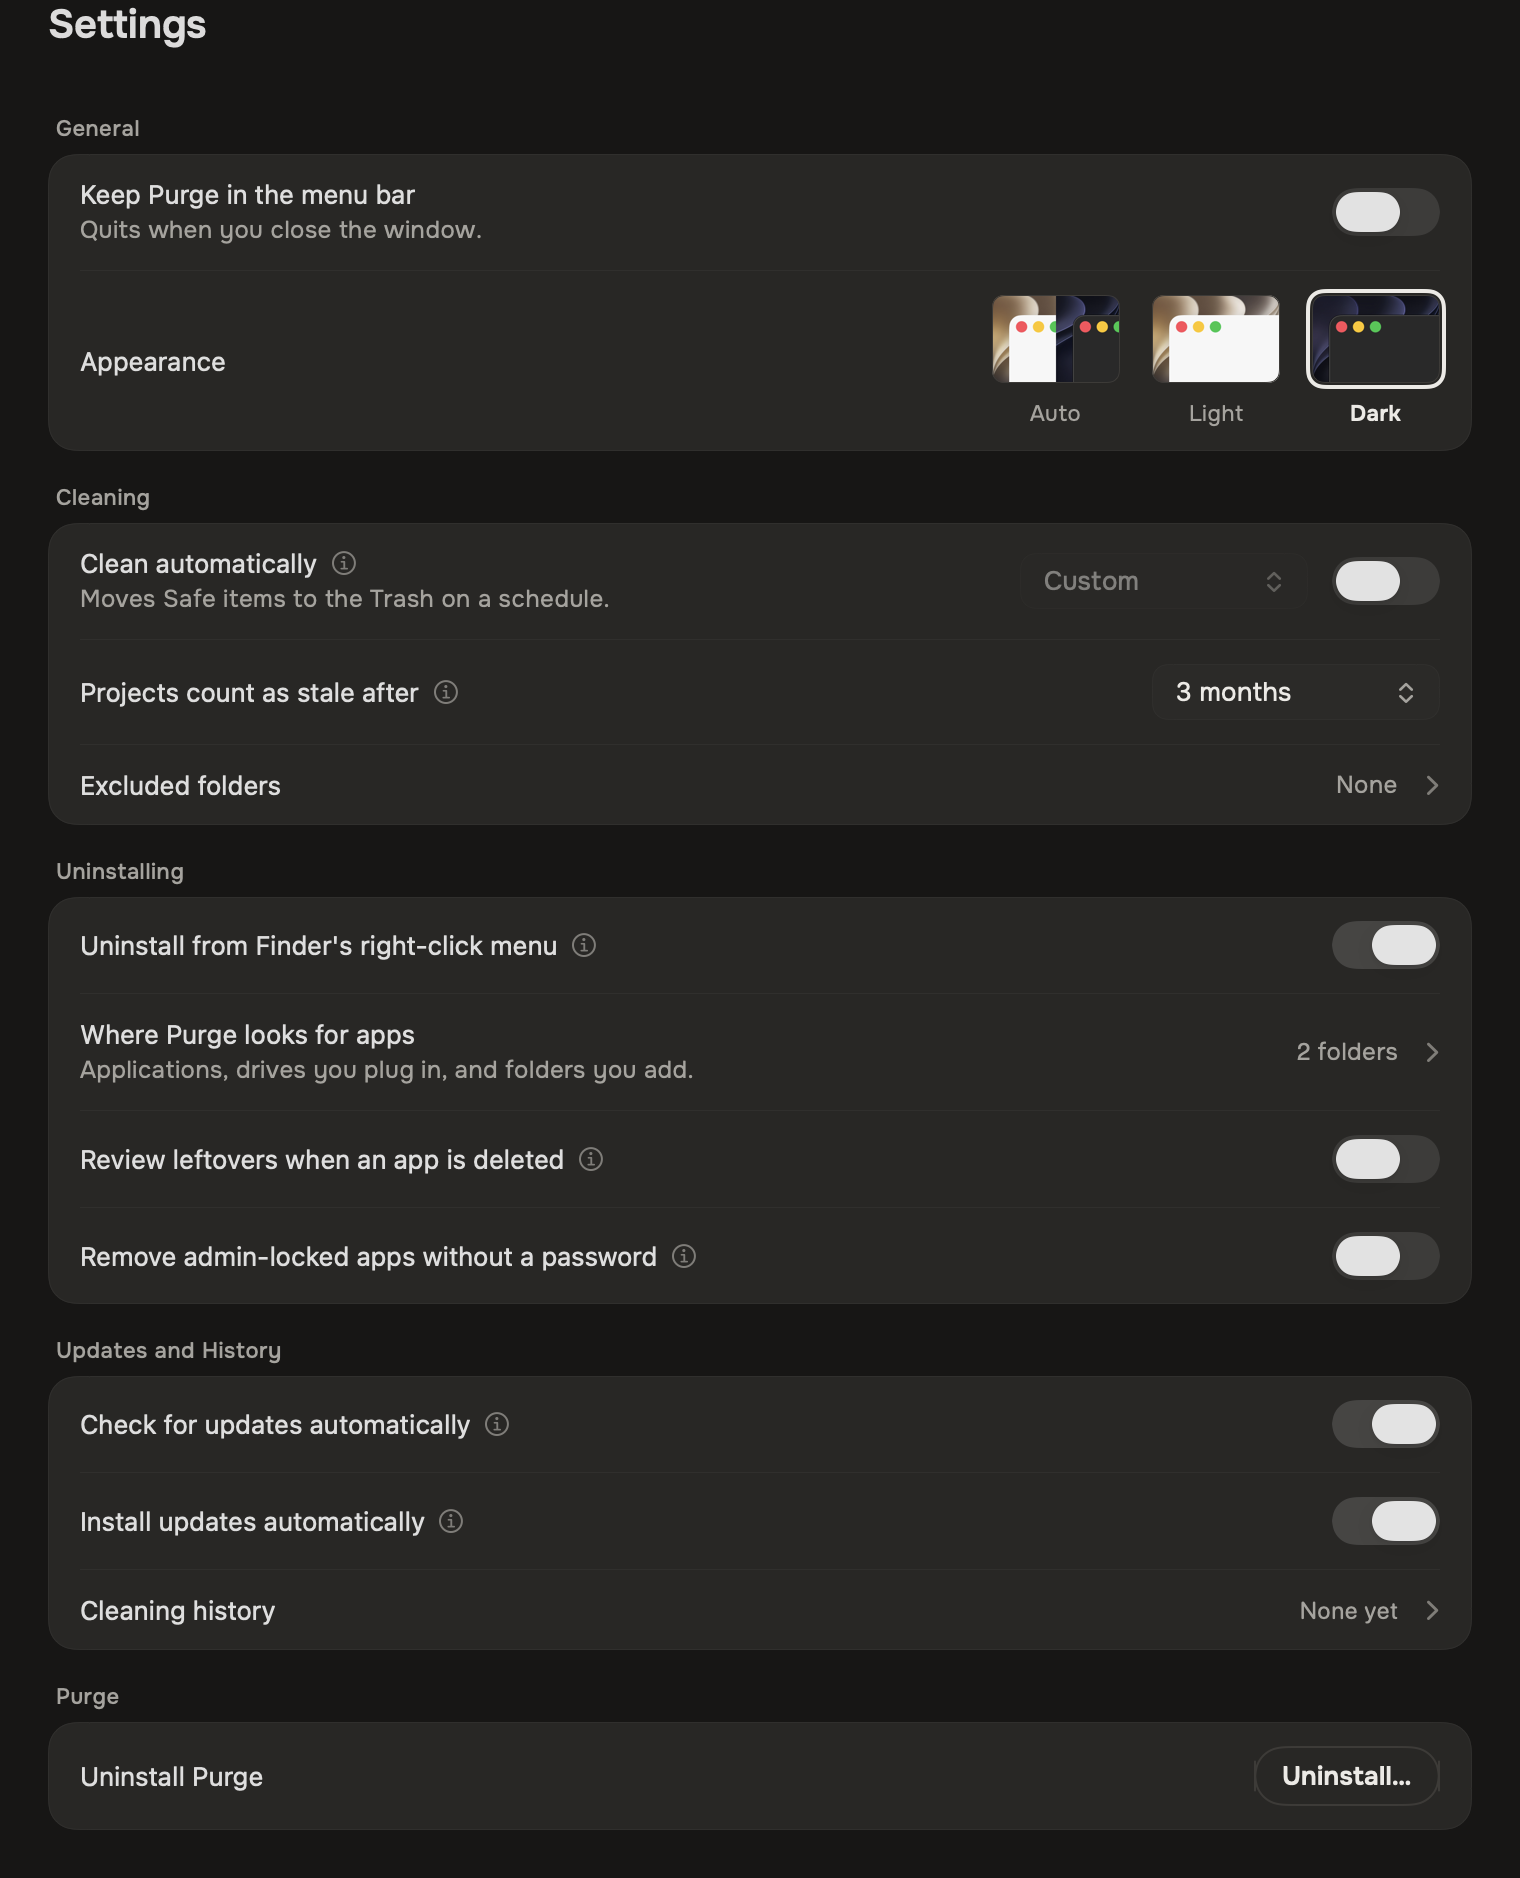
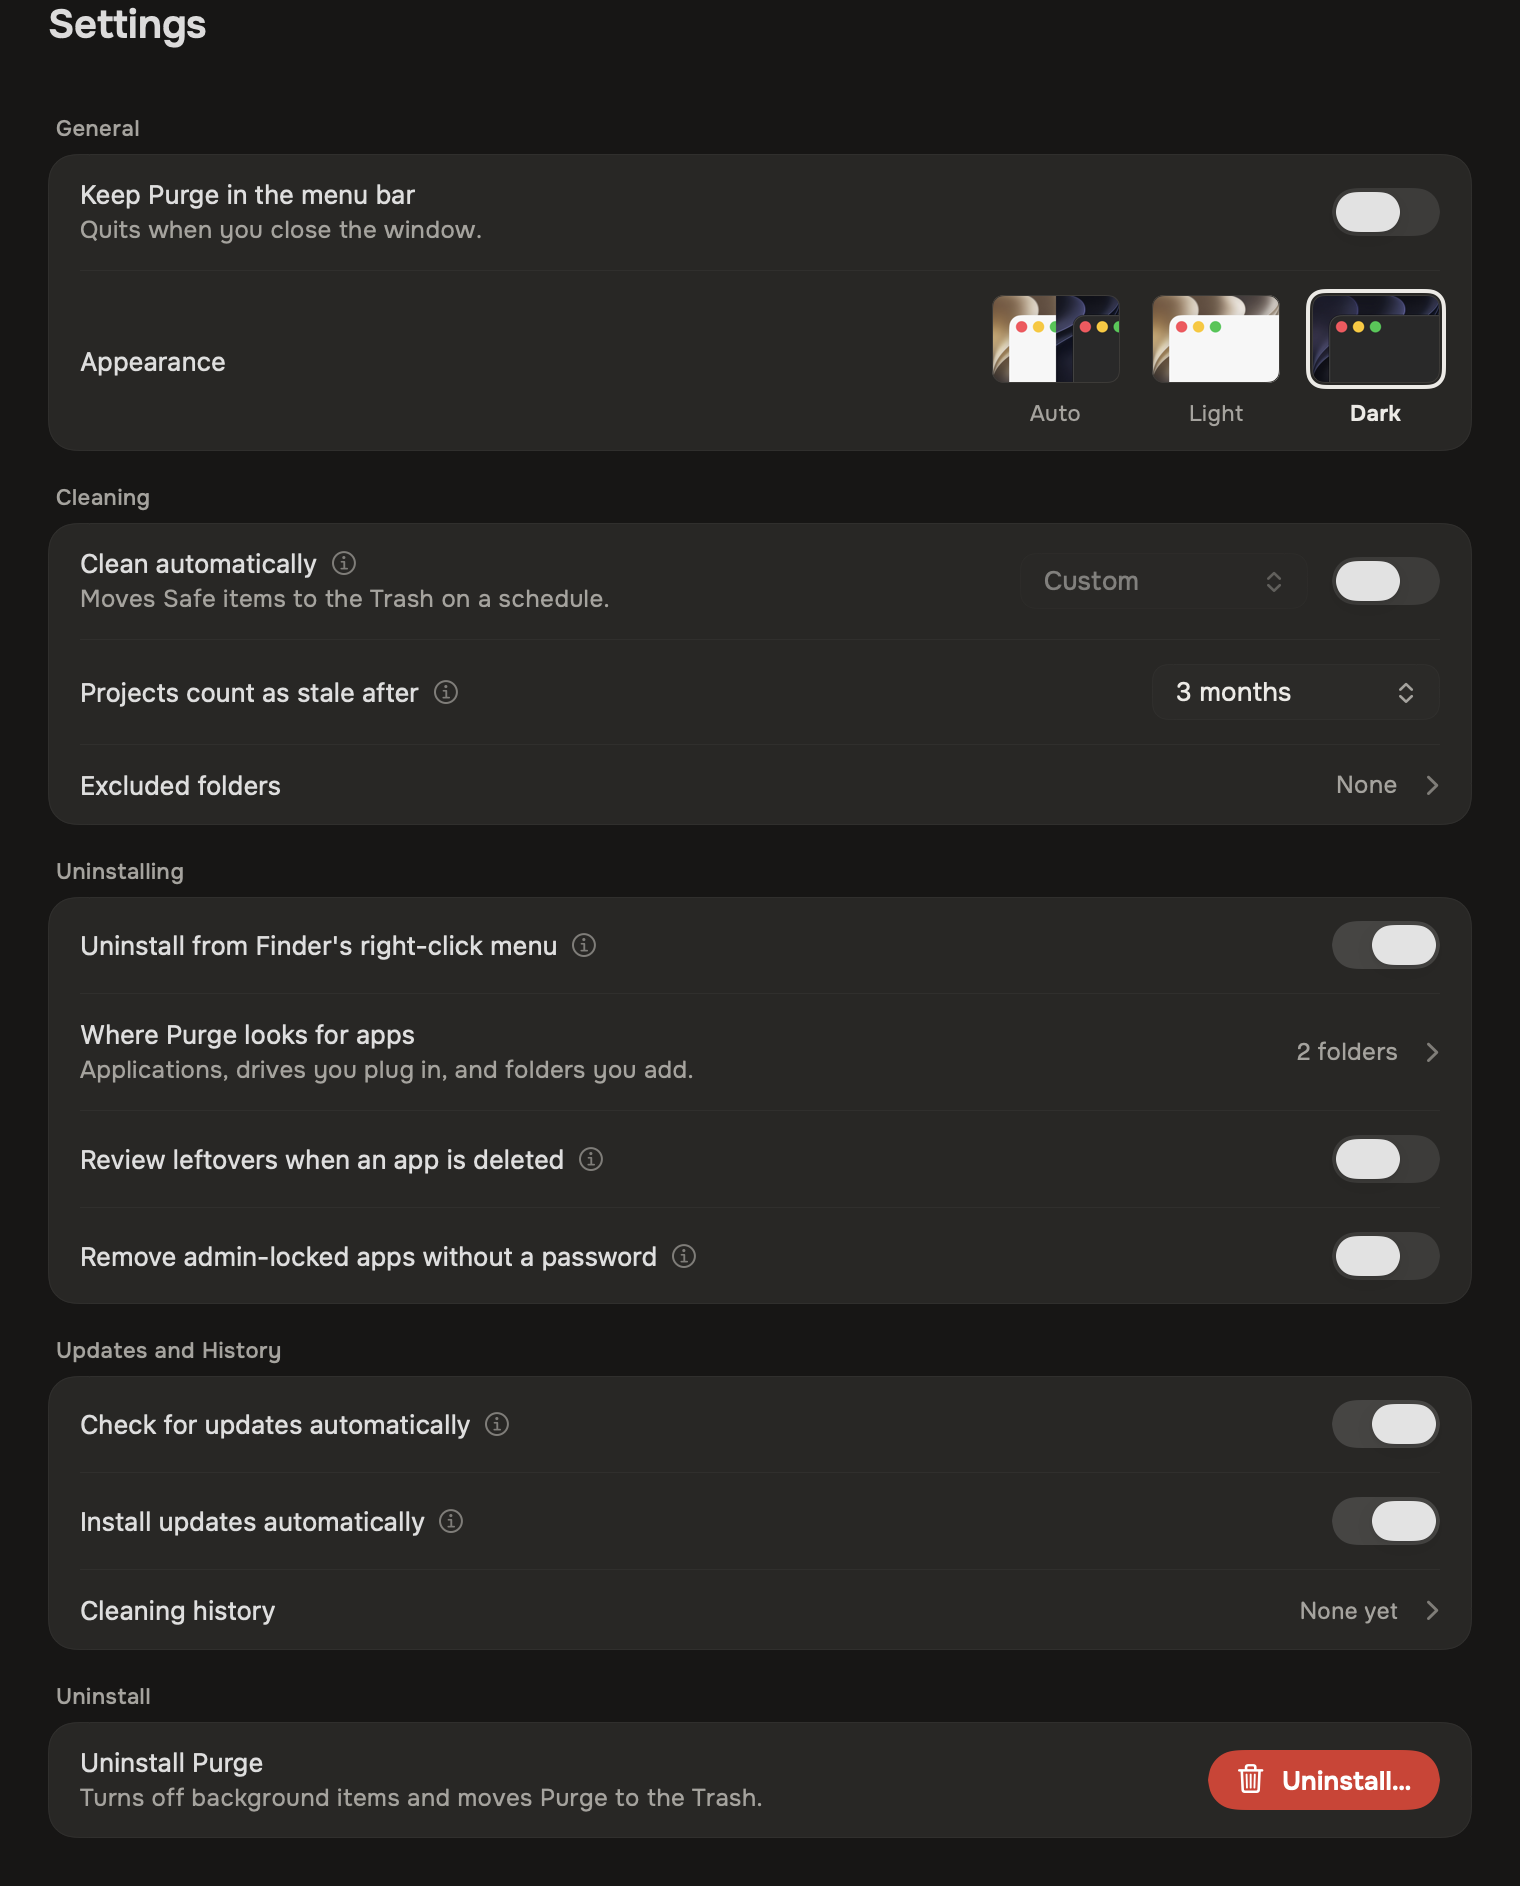
feat: show Uninstall Purge as a red button in its own Settings card (#330)
The group is called Uninstall, the row says what the button does, and the
button uses the destructive style with a trash icon. The card itself looks
like every other card.

diff --git a/purge/Views/SettingsView.swift b/purge/Views/SettingsView.swift
@@ -394,14 +394,21 @@ struct SettingsView: View {
 
     // MARK: - Uninstall
 
-    /// Uninstall Purge (#330), last, under everything it would turn off.
+    /// Uninstall Purge (#330), last, under everything it would turn off. A plain
+    /// card like the others; only the button is red, since it starts a move to
+    /// the Trash. The sheet it opens asks before anything happens.
     private var uninstallGroup: some View {
-        settingsGroup("Purge") {
-            settingsControlRow(title: String(localized: "Uninstall Purge")) {
-                Button(String(localized: "Uninstall…")) {
+        settingsGroup("Uninstall") {
+            settingsControlRow(
+                title: String(localized: "Uninstall Purge"),
+                caption: String(localized: "Turns off background items and moves Purge to the Trash.")
+            ) {
+                Button {
                     store.presentSelfUninstall()
+                } label: {
+                    Label(String(localized: "Uninstall…"), systemImage: "trash")
                 }
-                .buttonStyle(.purge(.secondary))
+                .buttonStyle(.purge(.destructive))
             }
         }
     }

diff --git a/README.md b/README.md
@@ -265,7 +265,7 @@ You can also browse past versions on the [releases page](https://github.com/jith
 
 ## Uninstalling
 
-Choose **Uninstall Purge…** in the Purge menu, or **Settings → Purge → Uninstall…**. Purge lists what it runs in the background on your Mac (the deleted-app watcher, the admin helper, the Finder right-click item, the cleanup reminder and launch at login), turns each one off and checks it really stopped, then moves itself to the Trash and quits.
+Choose **Uninstall Purge…** in the Purge menu, or **Settings → Uninstall → Uninstall…**. Purge lists what it runs in the background on your Mac (the deleted-app watcher, the admin helper, the Finder right-click item, the cleanup reminder and launch at login), turns each one off and checks it really stopped, then moves itself to the Trash and quits.
 
 Your settings and cleaning history stay on your Mac, so a reinstall picks up where you left off. Tick **Also move settings and history to the Trash** to move them too. Nothing is deleted permanently; you empty the Trash when you're ready.
 

diff --git a/README.zh-CN.md b/README.zh-CN.md
@@ -265,7 +265,7 @@ brew upgrade --cask purge
 
 ## 卸载
 
-在 Purge 菜单中选择 **卸载 Purge…**，或前往 **设置 → Purge → 卸载…**。Purge 会列出它在你的 Mac 上于后台运行的项目（已删除应用监视器、管理员助手、访达右键菜单项、清理提醒和登录时启动），逐一关闭并确认已真正停止，然后将自身移到废纸篓并退出。
+在 Purge 菜单中选择 **卸载 Purge…**，或前往 **设置 → 卸载 → 卸载…**。Purge 会列出它在你的 Mac 上于后台运行的项目（已删除应用监视器、管理员助手、访达右键菜单项、清理提醒和登录时启动），逐一关闭并确认已真正停止，然后将自身移到废纸篓并退出。
 
 你的设置和清理历史记录会保留在 Mac 上，重新安装后可以继续使用。勾选 **同时将设置和历史记录移到废纸篓** 可一并移走。不会永久删除任何内容；你可以在准备好时自行清倒废纸篓。
 
